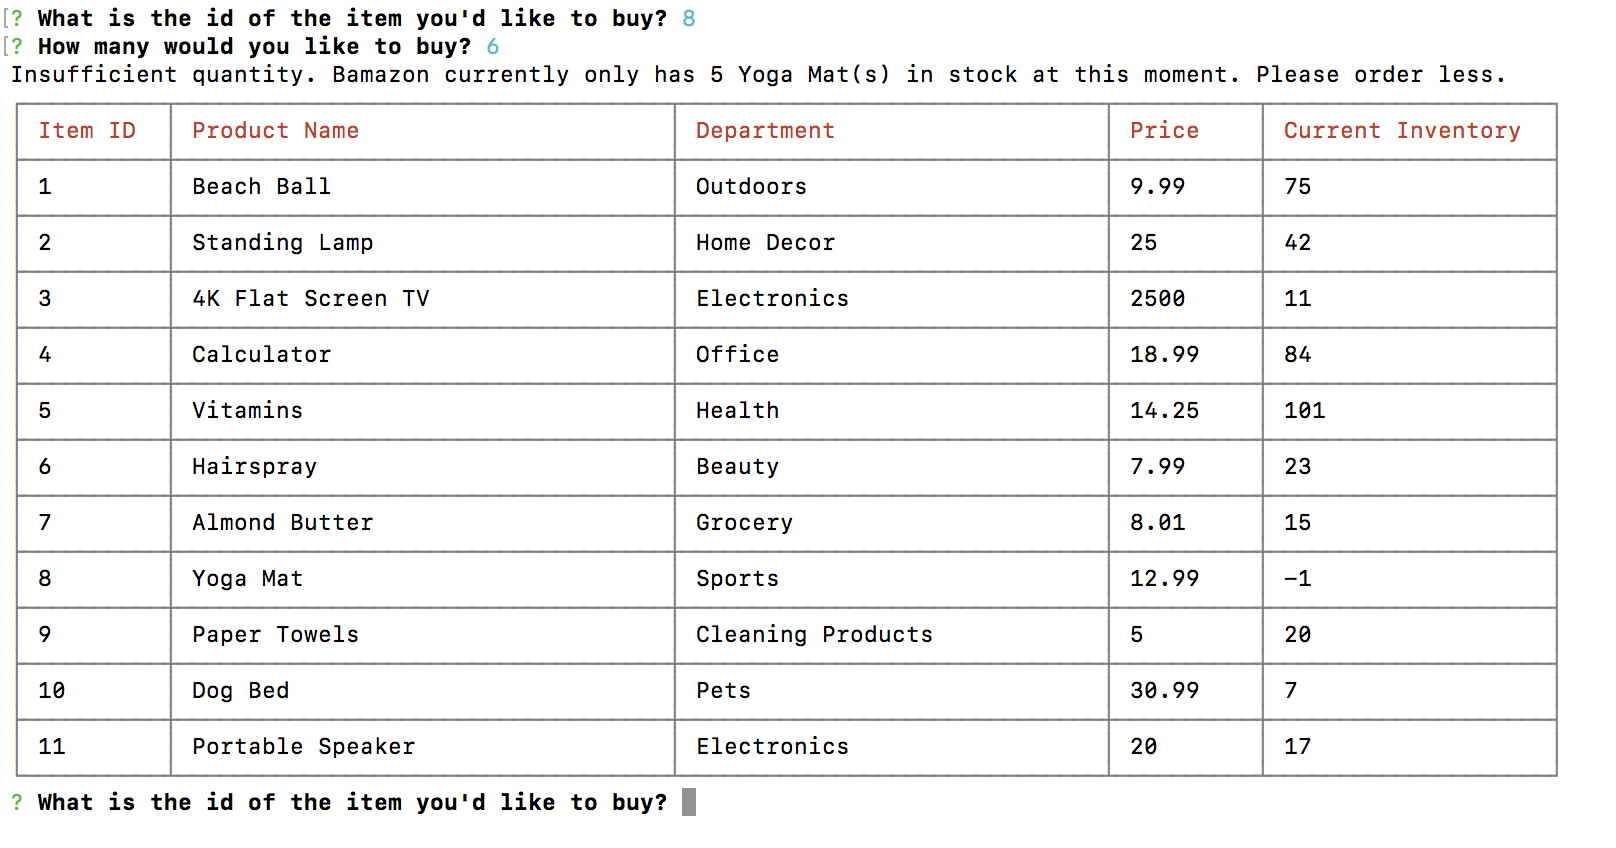
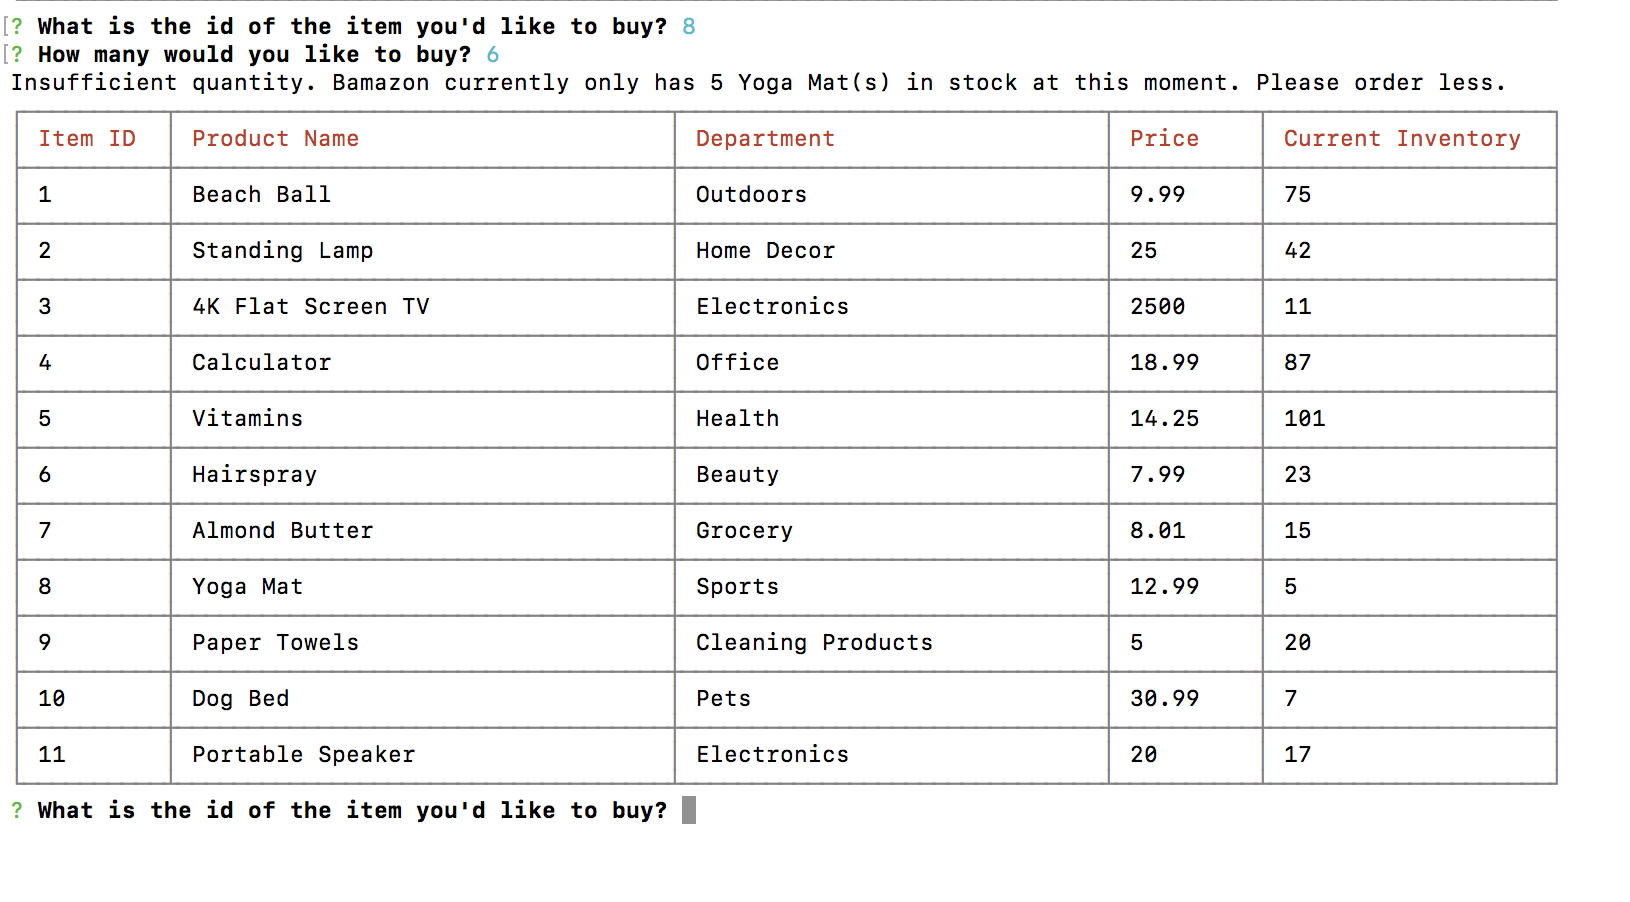
fixed insufficient quantity logic & updated README

Changed region(s): [[0.0, 0.0, 0.9592, 0.9811]]

diff --git a/bamazonCust.js b/bamazonCust.js
@@ -1,4 +1,3 @@
-
 //variables that require needed npms
 const mysql = require('mysql');
 const inquirer = require('inquirer');
@@ -40,17 +39,17 @@ function showInventory() {
 
 //function that uses the cli-table 2 npm to create an easy to read table
 function printTable(res) {
-	//sets up the new table variable
-	const table = new Table({
-		head: ['Item ID', 'Product Name', 'Department', 'Price', 'Current Inventory']
-		, colWidths: [10, 35, 30, 10, 20]
-	});
-	//for loop that pushes the data from the product table rows into the new table created
-	for (var i = 0; i < res.length; i++) {
-		table.push([res[i].item_id, res[i].product_name, res[i].department_name, res[i].price, res[i].stock_quantity]);
-	}
-	//logs the table to the terminal
-	console.log(table.toString());
+    //sets up the new table variable
+    const table = new Table({
+        head: ['Item ID', 'Product Name', 'Department', 'Price', 'Current Inventory'],
+        colWidths: [10, 35, 30, 10, 20]
+    });
+    //for loop that pushes the data from the product table rows into the new table created
+    for (var i = 0; i < res.length; i++) {
+        table.push([res[i].item_id, res[i].product_name, res[i].department_name, res[i].price, res[i].stock_quantity]);
+    }
+    //logs the table to the terminal
+    console.log(table.toString());
 }
 
 //this function asks the user what item they'd like to buy and how many items they would like to buy after the user has 
@@ -72,42 +71,39 @@ function promptUser() {
                 return false;
             }
         }]).then(function(answer) {
-        	//variables for the users quantity and item id they are buying --> 
+            //variables for the users quantity and item id they are buying --> 
             const quantity = answer.quantity
             const id = answer.id
-            
+
             //querying the bamazon_db database for the item_id the user entered    
             connection.query('SELECT * FROM products WHERE item_id=' + id, function(err, selectedItem) {
                 if (err) throw err;
                 //check to see if Bamazon has enough stock of the requested item id before continuing
                 if (selectedItem[0].stock_quantity - quantity >= 0) {
-                	//if there is enough in stock for the requested item, the user will receive the following messages
+                    //if there is enough in stock for the requested item, the user will receive the following messages
                     console.log("Bamazon has enough in stock of " + (selectedItem[0].product_name) + "(s)" + "!");
                     console.log("You will be charged $" + (quantity * selectedItem[0].price) + ". Thank you for shopping with Bamazon.");
-                } 
+                    //updating the bamazon_db stock quantities
+                    connection.query('UPDATE products SET stock_quantity=? WHERE item_id=?', [selectedItem[0].stock_quantity - quantity, id],
+                        function(err, inventory) {
+                            if (err) throw err;
+                            // runs the showInventory function again so the user can see updated inventory and continue shopping
+                            showInventory();
+                        });
+                }
+
+
                 //if there is not enough in stock, the user will be told to order less of the item and the showInventory function
                 //will start again
                 else {
                     console.log("Insufficient quantity. Bamazon currently only has " + selectedItem[0].stock_quantity + " " + selectedItem[0].product_name + "(s)" + " in stock at this moment. Please order less.");
-                    
+                    showInventory();
                 }
-
-
-                //updating the bamazon_db stock quantities
-                connection.query('UPDATE products SET stock_quantity=? WHERE item_id=?', [selectedItem[0].stock_quantity - quantity, id],
-                    function(err, inventory) {
-                        if (err) throw err;
-                        // runs the showInventory function again so the user can see updated inventory and continue shopping
-                        showInventory();
-   
-
-                    });
 
             });
 
-
         });
 
+
+
 }
-
-
